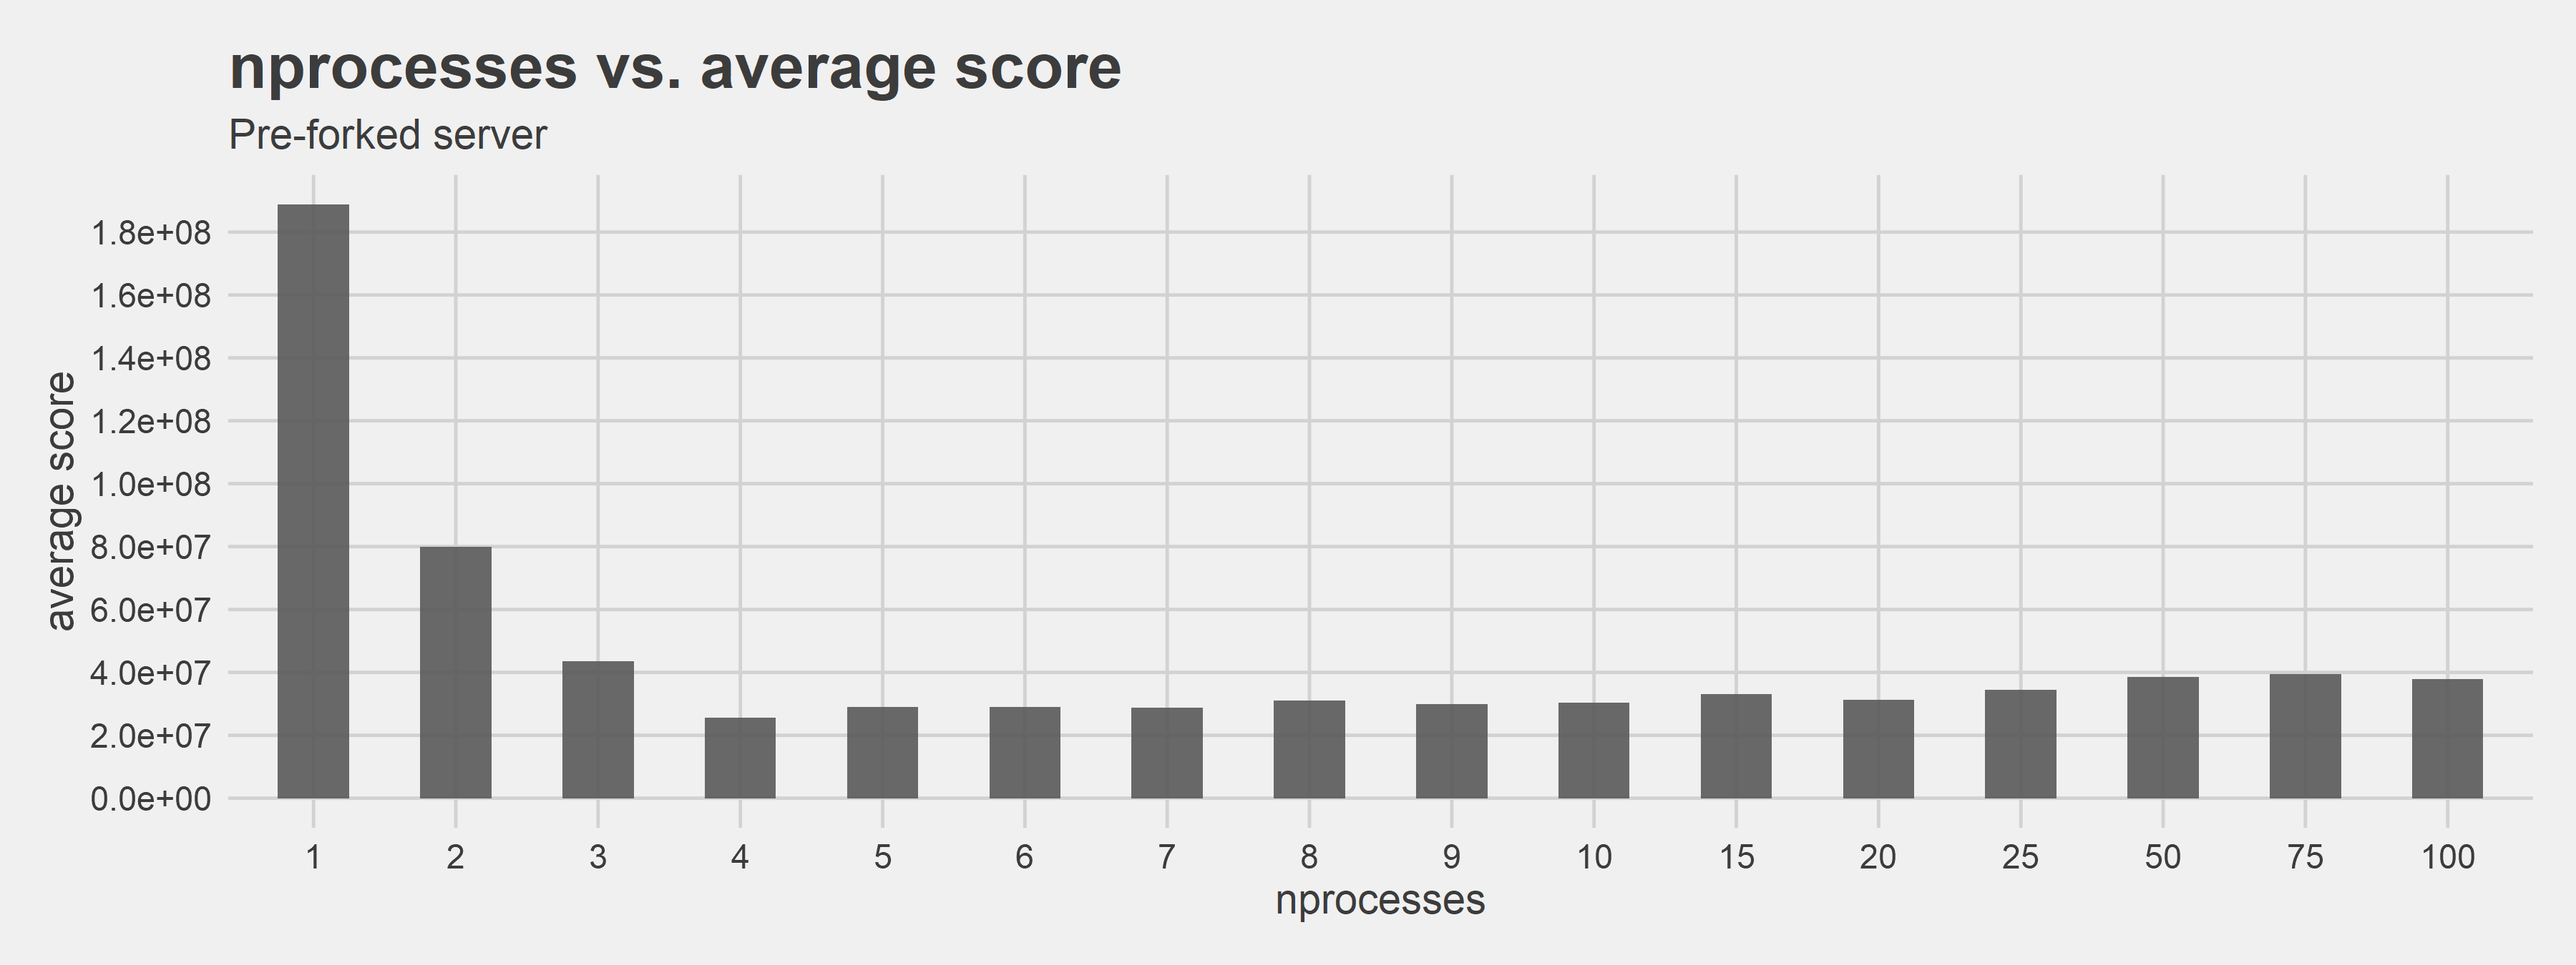
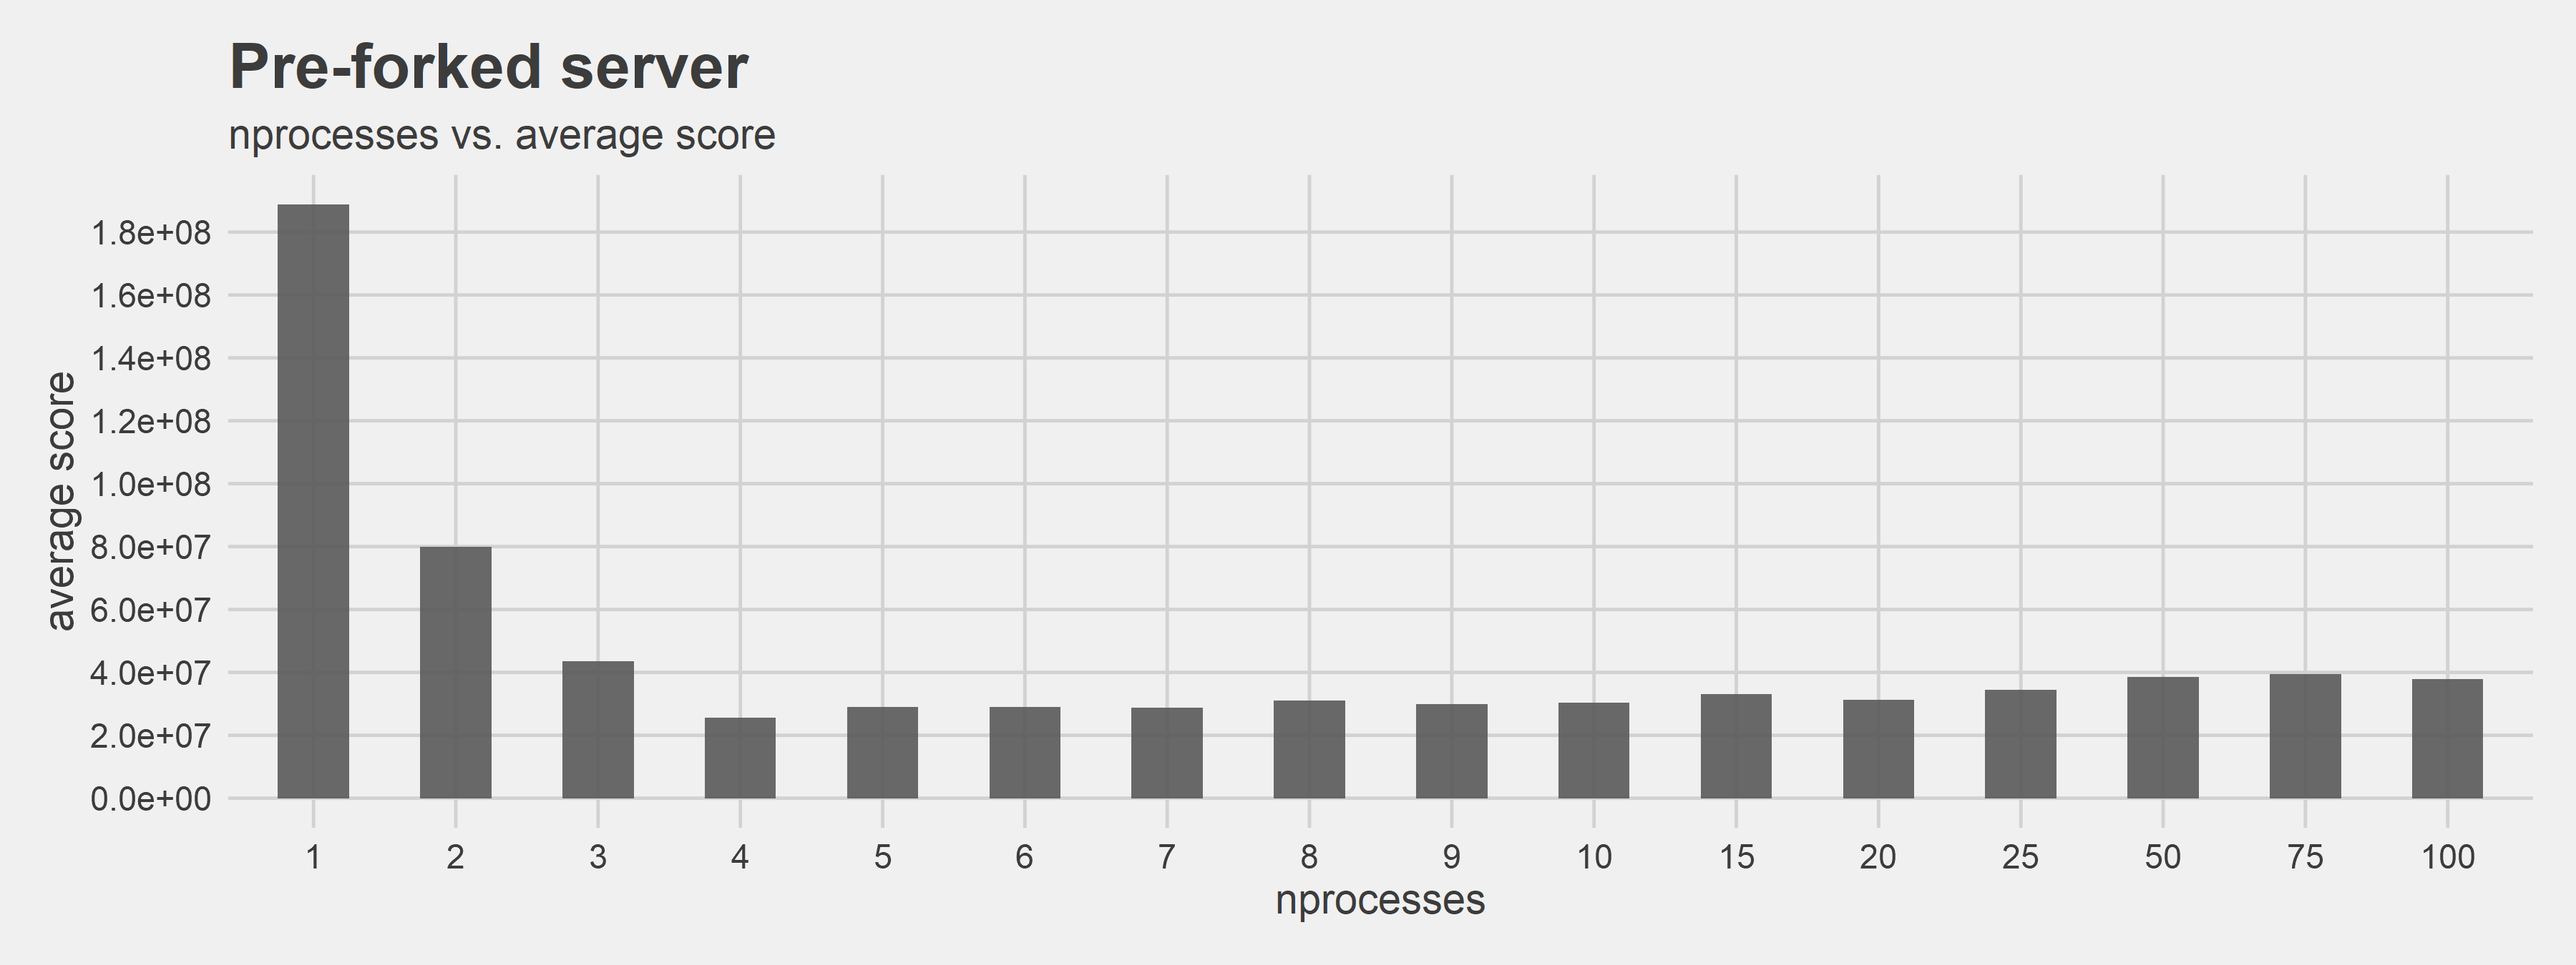
Edit: fix plots and plot image include in README

Changed region(s): [[0.0933, 0.0311, 0.4356, 0.0933], [0.0933, 0.1244, 0.3111, 0.1556]]

diff --git a/README.md b/README.md
@@ -74,25 +74,24 @@ The average score of the pre-forked server vs. number of processes used can be s
 
 <center>
 
-nprocesses | average score 
----        |---            
-1          | 1.99          
-2          | 1.89          
-3          | 1.89 
-4          | 1.89 
-5          | 1.89 
-6          | 1.89 
-7          | 1.89 
-8          | 1.89 
-9          | 1.89 
-10         | 1.89 
-15         | 1.89 
-20         |
-25         |
-50         |
-75         |
-100        |
-
+nprocesses | avg. score 
+:---:      |:---:            
+1          | 188.714.681          
+2          | 79.859.721          
+3          | 43.543.070
+4          | 25.659.675
+5          | 28.900.904 
+6          | 29.001.487 
+7          | 28.809.463 
+8          | 31.135.826 
+9          | 29.873.306 
+10         | 30.343.382 
+15         | 33.180.782 
+20         | 31.304.500
+25         | 34.435.920
+50         | 38.438.750
+75         | 39.471.807
+100        | 37.809.006
 
 **Table 1** - Number of processes, nprocesses and the corresponding the average score of 3 runs of the run-client-continuous configuration.
 
@@ -136,25 +135,24 @@ The average score of the pre-forked server vs. number of processes used can be s
 
 <center>
 
-nthreads | average score 
----        |---            
-1          | 1.99          
-2          | 1.89          
-3          | 1.89 
-4          | 1.89 
-5          | 1.89 
-6          | 1.89 
-7          | 1.89 
-8          | 1.89 
-9          | 1.89 
-10         | 1.89 
-15         | 1.89 
-20         |
-25         |
-50         |
-75         |
-100        |
-
+nthreads   | avg. score 
+:---:      |:---:            
+1          | 187.705.339
+2          | 79.464.797
+3          | 42.884.917 
+4          | 24.895.742 
+5          | 25.432.171 
+6          | 25.442.396 
+7          | 27.096.588 
+8          | 28.200.715 
+9          | 27.874.168 
+10         | 28.351.505 
+15         | 28.477.808 
+20         | 33.355.355
+25         | 35.717.697
+50         | 38.801.047
+75         | 40.486.609
+100        | 41.152.935
 
 **Table 2** - Number of processes, nprocesses and the corresponding the average score of 3 runs of the run-client-continuous configuration.
 
@@ -195,25 +193,12 @@ The average score of the pre-forked server vs. number of processes used can be s
 
 <center>
 
-server     | avg. score continuous config. | avg.  
----        |---            
-1          | 1.99          
-2          | 1.89          
-3          | 1.89 
-4          | 1.89 
-5          | 1.89 
-6          | 1.89 
-7          | 1.89 
-8          | 1.89 
-9          | 1.89 
-10         | 1.89 
-15         | 1.89 
-20         |
-25         |
-50         |
-75         |
-100        |
-
+server       | avg. score continuous config. | avg. score delay config. | avg. score difficulty config. | avg. score total config.
+:---         |:---:                          |:---:                     |:---:                          |:---:
+otfProc      | 45.639.617                    | 85.047.194               | 118.839.452                   | 304.733.020
+otfThread    | 40.984.470                    | 79.879.488               | 114.785.781                   | 257.494.808
+pooledProc   | 26.952.785                    | 56.119.947               | 86.149.445                    | 175.179.777
+pooledThread | 24.848.807                    | 54.961.863               | 80.417.041                    | 168.785.700
 
 **Table 3** - Number of processes, nprocesses and the corresponding the average score of 3 runs of the run-client-continuous configuration.
 
@@ -259,25 +244,10 @@ The average score of the pre-forked server vs. number of processes used can be s
 
 <center>
 
-server     | avg. score continuous config. | avg.  
----        |---            
-1          | 1.99          
-2          | 1.89          
-3          | 1.89 
-4          | 1.89 
-5          | 1.89 
-6          | 1.89 
-7          | 1.89 
-8          | 1.89 
-9          | 1.89 
-10         | 1.89 
-15         | 1.89 
-20         |
-25         |
-50         |
-75         |
-100        |
-
+server       | avg. score continuous config. | avg. score delay config. | avg. score rep config.   | avg. score total config.
+:---         |:---:                          |:---:                     |:---:                     |:---:
+noCache      | 23.095.305                    | 52.696.637               | 27.749.345               | 79.471.613
+Cache        | 12.866.916                    | 50.319.332               | 1.138.442                | 30.957.670
 
 **Table 4** - Number of processes, nprocesses and the corresponding the average score of 3 runs of the run-client-continuous configuration.
 
@@ -322,25 +292,10 @@ The average score of the pre-forked server vs. number of processes used can be s
 
 <center>
 
-server     | avg. score continuous config. | avg.  
----        |---            
-1          | 1.99          
-2          | 1.89          
-3          | 1.89 
-4          | 1.89 
-5          | 1.89 
-6          | 1.89 
-7          | 1.89 
-8          | 1.89 
-9          | 1.89 
-10         | 1.89 
-15         | 1.89 
-20         |
-25         |
-50         |
-75         |
-100        |
-
+server       | avg. score continuous config. | avg. score delay config. | avg. score difficulty config. | avg. score total config.
+:---         |:---:                          |:---:                     |:---:                     |:---:
+noSplit      | 12.901.995                    | 50.807.699               | 72.256.643               | 32.018.256
+Split        | 6.440.981                     | 47.436.048               | 64.075.291               | 33.719.540
 
 **Table 5** - Number of processes, nprocesses and the corresponding the average score of 3 runs of the run-client-continuous configuration.
 
@@ -386,34 +341,20 @@ The average score of the pre-forked server vs. number of processes used can be s
 
 <center>
 
-![Figure 6](/experiments/e4_nonblocking_IO/plot/nonblock_e4.png "Figure 6 - figure text")
-**Figure 6** - Number of processes, nprocesses plotted against the average score of 3 runs of the run-client-continuous configuration. 
+![Figure 7](/experiments/e4_nonblocking_IO/plot/nonblock_e4.png "Figure 7 - figure text")
+**Figure 7** - Number of processes, nprocesses plotted against the average score of 3 runs of the run-client-continuous configuration. 
 
 </center>
 
 <center>
 
-server     | avg. score continuous config. | avg.  
----        |---            
-1          | 1.99          
-2          | 1.89          
-3          | 1.89 
-4          | 1.89 
-5          | 1.89 
-6          | 1.89 
-7          | 1.89 
-8          | 1.89 
-9          | 1.89 
-10         | 1.89 
-15         | 1.89 
-20         |
-25         |
-50         |
-75         |
-100        |
+server             | avg. score continuous config.   | avg. score delay config.   | avg. score total config.
+:---               |:---:                            |:---:                       |:---:
+Cache              | 12.724.445                      | 51.209.584                 | 33.476.872
+NonblockingNoSplit | 24.772.857                      | 65.741.297                 | 103.205.123
+NonblockingSplit   | 15.457.998                      | 60.914.793                 | 939.55.287
 
-
-**Table 6** - Number of processes, nprocesses and the corresponding the average score of 3 runs of the run-client-continuous configuration.
+**Table 7** - Number of processes, nprocesses and the corresponding the average score of 3 runs of the run-client-continuous configuration.
 
 </center>
 
@@ -463,25 +404,10 @@ The average score of the pre-forked server vs. number of processes used can be s
 
 <center>
 
-server     | avg. score continuous config. | avg.  
----        |---            
-1          | 1.99          
-2          | 1.89          
-3          | 1.89 
-4          | 1.89 
-5          | 1.89 
-6          | 1.89 
-7          | 1.89 
-8          | 1.89 
-9          | 1.89 
-10         | 1.89 
-15         | 1.89 
-20         |
-25         |
-50         |
-75         |
-100        |
-
+server       | avg. score continuous config. | avg. score lambda config. |  score total config.
+:---         |:---:                          |:---:                      |:---:                    
+noPrio       | 11.821.705                    | 19.440.887                | 30.428.390              
+Prio         | 11.945.608                    | 19.218.756                | 31.699.477              
 
 **Table 7** - Number of processes, nprocesses and the corresponding the average score of 3 runs of the run-client-continuous configuration.
 
